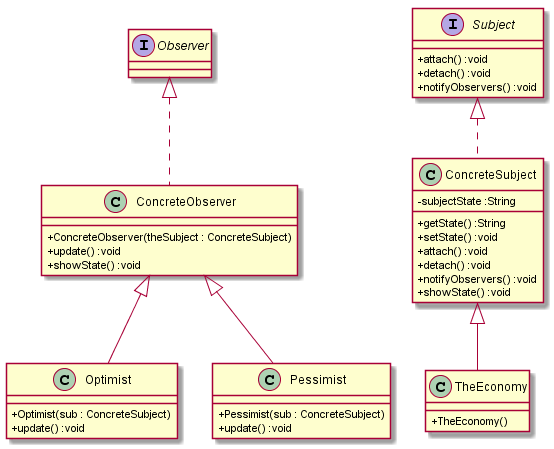
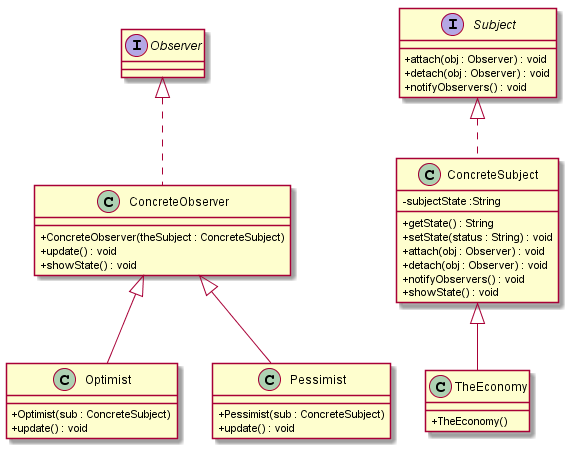
For #14: Displaying public methods and parameters

diff --git a/src/com/parser/JavaParserUML.java b/src/com/parser/JavaParserUML.java
@@ -63,7 +63,7 @@ public class JavaParserUML {
 			for (TypeDeclaration type : types) {
 				if (type instanceof ClassOrInterfaceDeclaration) {
 					ClassOrInterfaceDeclaration className = (ClassOrInterfaceDeclaration) type;
-					System.err.println(className.getName());
+				//	System.err.println(className.getName());
 					if (className.isInterface()) {
 
 						System.out.println("its an interface");
@@ -92,7 +92,7 @@ public class JavaParserUML {
 					parsedStructure.setAttributes(attributeStructure);
 					// Get the class methods
 					if (classAttribute instanceof MethodDeclaration) {
-						MethodStructure methodStruct = getClassMethods(classAttribute);
+						MethodStructure methodStruct = getClassMethods(classAttribute,parsedStructure);
 						methodStructure.add(methodStruct);
 					}
 					parsedStructure.setMethods(methodStructure);
@@ -134,7 +134,7 @@ public class JavaParserUML {
 
 			// System.err.println(sourceClassName.toString());
 
-			RelationBean parsedRel = generateRelationships(field.getType().toString(), sourceClassName.getClassName());
+			RelationBean parsedRel = generateAssociation(field.getType().toString(), sourceClassName.getClassName());
 			// attrs.setAttributeType(field.getType().toString());
 			attrs.setRelationFlag(true);
 			parsedRelations.add(parsedRel);
@@ -148,9 +148,11 @@ public class JavaParserUML {
 
 	}
 
-	public static MethodStructure getClassMethods(BodyDeclaration classAttribute) {
+	public static MethodStructure getClassMethods(BodyDeclaration classAttribute, ClassStructure sourceClassName) {
 		MethodStructure methodStruct = new MethodStructure();
 		MethodDeclaration methoDec = (MethodDeclaration) classAttribute;
+		List<ParameterStructure> methodParams = new ArrayList<ParameterStructure>();
+		
 		// System.out.println(field.getModifiers());
 		// attrs.setAttributeaccessModifier(field.getModifiers());
 		if (methoDec.getModifiers() == ModifierSet.PUBLIC) {
@@ -159,6 +161,22 @@ public class JavaParserUML {
 			methodStruct.setMethodAccessModifier("private");
 		}
 		methodStruct.setMethodName(methoDec.getName());
+		if(methoDec.getParameters()!=null && !methoDec.getParameters().isEmpty()){
+			ParameterStructure parStruct = new ParameterStructure();
+			for(Parameter param : methoDec.getParameters()){
+				if(param.getType().getClass().getSimpleName().equalsIgnoreCase("ReferenceType")){
+					System.out.println("Rastapopulous");
+				}
+				parStruct.setParameterName(param.getId().getName());
+				parStruct.setParameterType(param.getType().toString());
+				//parStruct.set
+				System.out.println(param.getId().getName());
+				
+			}
+			methodParams.add(parStruct);
+			methodStruct.setMethodParameters(methodParams);
+		}
+		
 		methodStruct.setMethodReturnType(methoDec.getType().toString());
 		return methodStruct;
 
@@ -177,14 +195,13 @@ public class JavaParserUML {
 		constStruct.setConstName(constDec.getName());
 
 		ParameterStructure parStruct = new ParameterStructure();
-		if(constDec.getParameters() != null && !constDec.getParameters().isEmpty()){
-		for (Parameter par : constDec.getParameters()) {
-			parStruct.setParameterName(par.getId().getName());
-			parStruct.setParameterType(par.getType().toString());
+		if (constDec.getParameters() != null && !constDec.getParameters().isEmpty()) {
+			for (Parameter par : constDec.getParameters()) {
+				parStruct.setParameterName(par.getId().getName());
+				parStruct.setParameterType(par.getType().toString());
+			}
+			params.add(parStruct);
 		}
-		params.add(parStruct);
-		}
-		
 
 		constStruct.setConstParameters(params);
 
@@ -192,10 +209,10 @@ public class JavaParserUML {
 
 	}
 
-	public static RelationBean generateRelationships(String relType, String sourceClassName) {
+	public static RelationBean generateAssociation(String relType, String sourceClassName) {
 		RelationBean rel = new RelationBean();
 		if (relType.contains("Collection<")) {
-			String asso = Character.toString(relType.charAt(11));
+			String asso = relType.substring(relType.indexOf("<") + 1, relType.indexOf(">"));
 			System.out.println(asso);
 			rel.setAssociatedClass(asso);
 		} else {
@@ -212,7 +229,7 @@ public class JavaParserUML {
 		printLine.append("skinparam classAttributeIconSize 0\n");
 		for (ClassStructure classValues : parsedList) {
 			String className = classValues.getClassName();
-			System.out.println(className);
+		//	System.out.println(className);
 			if (classValues.isAnInterface()) {
 				printLine.append("interface " + className + " {\n");
 			} else {
@@ -262,8 +279,19 @@ public class JavaParserUML {
 					 * + methoDec.getMethodReturnType() + "\n"); } else
 					 */ if (methoDec.getMethodAccessModifier() == "public") {
 						printLine.append(
-								"+" + methoDec.getMethodName() + "() :" + methoDec.getMethodReturnType() + "\n");
+								"+" + methoDec.getMethodName() + "(");
+						if (methoDec.getMethodParameters()!=null && !methoDec.getMethodParameters().isEmpty()) {
+							for (int i = 0; i < methoDec.getMethodParameters().size(); i++) {
+								if (i == 0) {
+									printLine.append(methoDec.getMethodParameters().get(i).getParameterName() + " : "
+											+ methoDec.getMethodParameters().get(i).getParameterType());
+
+								}
+							}
+						}
+					 printLine.append(") : "+methoDec.getMethodReturnType() +" \n");
 					}
+					 
 				}
 			}
 			printLine.append("}\n");

diff --git a/src/com/parser/beans/MethodStructure.java b/src/com/parser/beans/MethodStructure.java
@@ -1,9 +1,13 @@
 package com.parser.beans;
 
+import java.util.List;
+
 public class MethodStructure {
 	private String methodName;
 	private String methodAccessModifier;
 	private String methodReturnType;
+	private List<ParameterStructure>methodParameters;
+	
 
 	public String getMethodName() {
 		return methodName;
@@ -27,6 +31,20 @@ public class MethodStructure {
 
 	public void setMethodReturnType(String methodReturnType) {
 		this.methodReturnType = methodReturnType;
+	}
+
+	public List<ParameterStructure> getMethodParameters() {
+		return methodParameters;
+	}
+
+	public void setMethodParameters(List<ParameterStructure> methodParameters) {
+		this.methodParameters = methodParameters;
+	}
+
+	public String createDependecy(String sourceClass, String associatedClass) {
+		String str = sourceClass + "..>" + associatedClass;
+		return str;
+
 	}
 
 }

diff --git a/src/com/parser/beans/ParameterStructure.java b/src/com/parser/beans/ParameterStructure.java
@@ -1,8 +1,12 @@
 package com.parser.beans;
 
+import java.util.List;
+
 public class ParameterStructure {
 	private String parameterType;
 	private String parameterName;
+	private boolean relationFlag;
+	private List<RelationBean> relationBean;
 
 	public String getParameterType() {
 		return parameterType;
@@ -18,6 +22,22 @@ public class ParameterStructure {
 
 	public void setParameterName(String parameterName) {
 		this.parameterName = parameterName;
+	}
+
+	public boolean isRelationFlag() {
+		return relationFlag;
+	}
+
+	public void setRelationFlag(boolean relationFlag) {
+		this.relationFlag = relationFlag;
+	}
+
+	public List<RelationBean> getRelationBean() {
+		return relationBean;
+	}
+
+	public void setRelationBean(List<RelationBean> relationBean) {
+		this.relationBean = relationBean;
 	}
 
 }

diff --git a/src/com/parser/beans/AttributeStructure.java b/src/com/parser/beans/AttributeStructure.java
@@ -59,7 +59,7 @@ public class AttributeStructure {
 		this.relationFlag = relationFlag;
 	}
 
-	public static String createAssociation(String sourceClass, String associatedClass) {
+	public String createAssociation(String sourceClass, String associatedClass) {
 		String str = sourceClass + "--" + associatedClass;
 		return str;
 

diff --git a/src/com/parser/beans/ClassStructure.java b/src/com/parser/beans/ClassStructure.java
@@ -2,8 +2,6 @@ package com.parser.beans;
 
 import java.util.List;
 
-import japa.parser.ast.body.ClassOrInterfaceDeclaration;
-import japa.parser.ast.body.ConstructorDeclaration;
 import japa.parser.ast.type.ClassOrInterfaceType;
 
 public class ClassStructure {

diff --git a/src/testClasses/test1/C.java b/src/testClasses/test1/C.java
@@ -4,7 +4,7 @@ public class C {
 	 
 	private A a;
 	 
-	public void hell(){
-		
+	public void hell(B b){
+		D d;
 	}
 }
